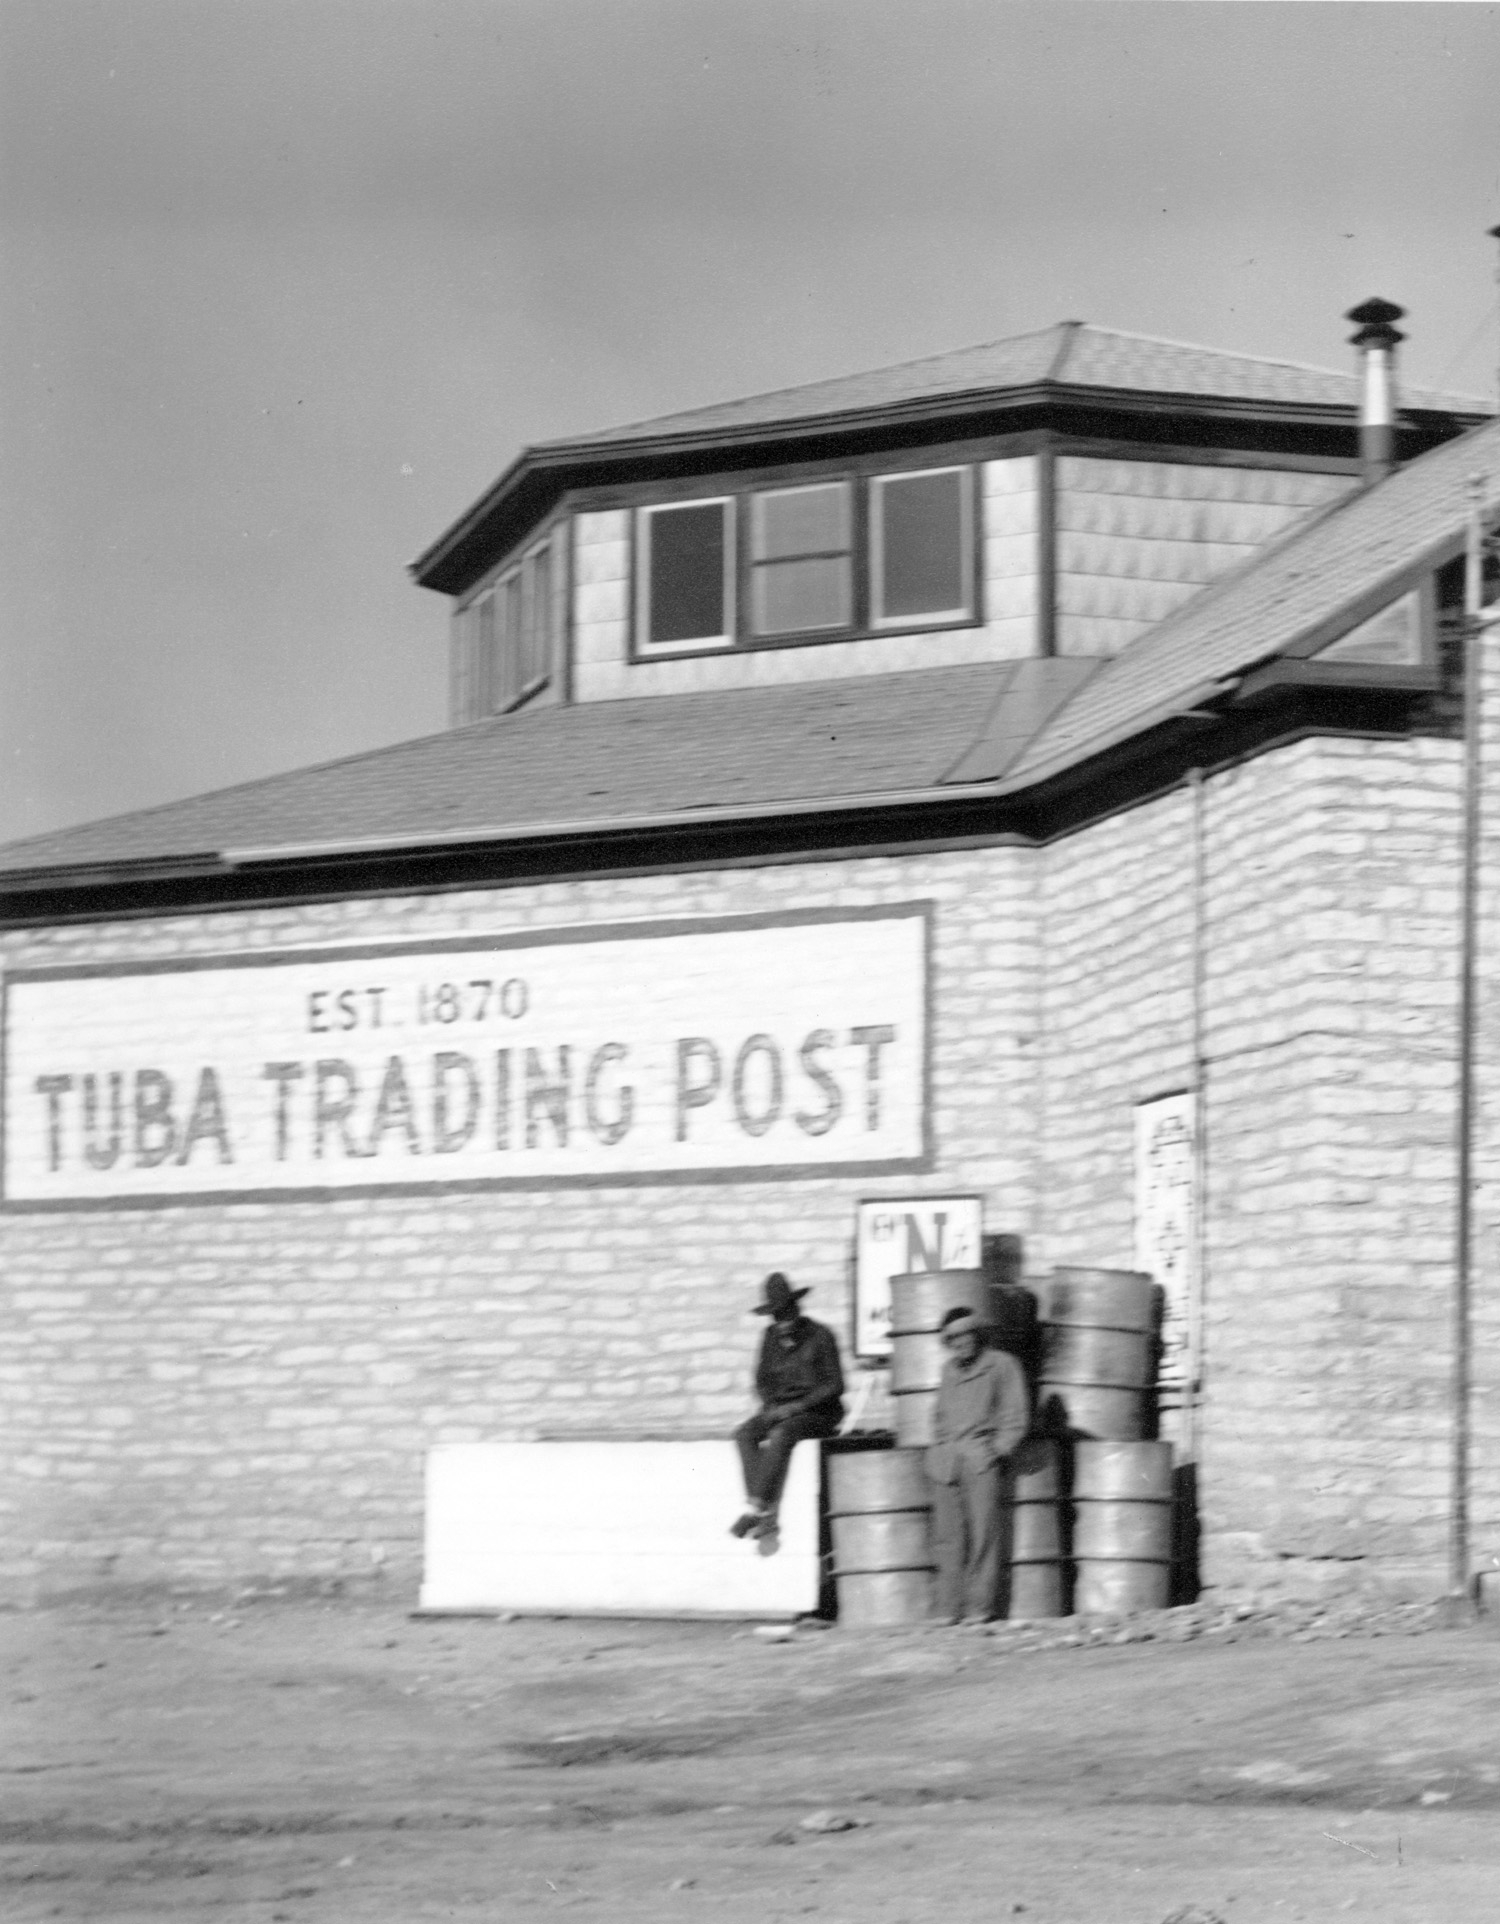
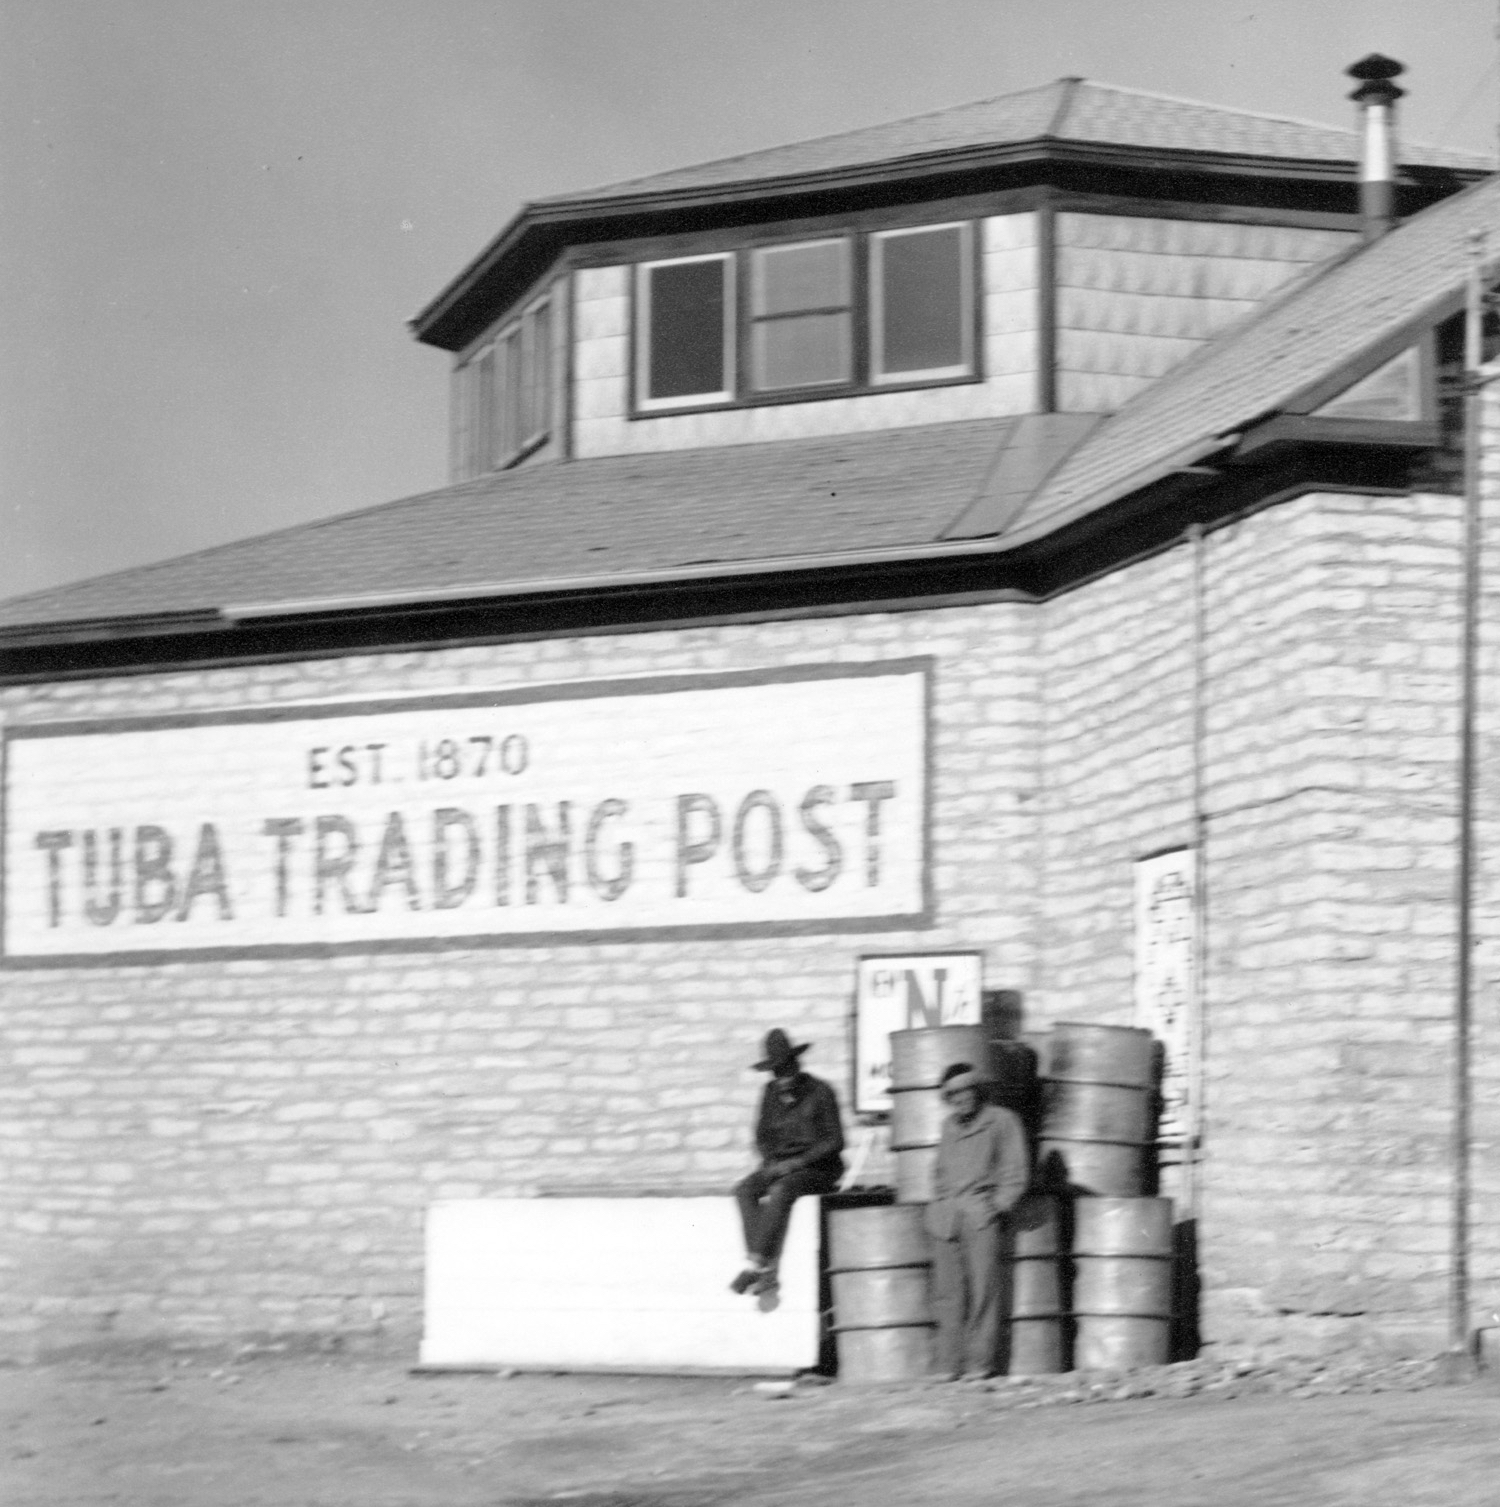
image input

diff --git a/TubaCity.html b/TubaCity.html
@@ -23,6 +23,8 @@
 
   <h2>Uranium Mines on the Navajo Nation</h2>
 
+  <img src="/img/tubacity.jpg" alt="Tuba City">
+
   <h3>Tó Naneesdizí - Tuba City</h3>
 
   <p>The boundaries of the Tuba City region comprises of Cameron, Coalmine Mesa, Bodaway, Tuba City, Tonalea, Kaibeto, Coppermine, and Lechee.</p>
@@ -33,7 +35,7 @@
 
   <h4>Mill and processing sites:</h4>
 
-  <p>Highway 160 site, Tuba City mill site, Tuba city open dump.</p>
+  <p>Highway 160 site, Tuba City mill site, Tuba City open dump.</p>
 
   <h4>Mine settlements:</h4>
 

diff --git a/css/styles.css b/css/styles.css
@@ -48,6 +48,11 @@ p {
     padding-left: .5rem;
 }
 
+img {
+    padding-top: 1rem;
+    display: flex;
+}
+
 a.Index {
     background-color: #ffffff;
     color: #000000;
